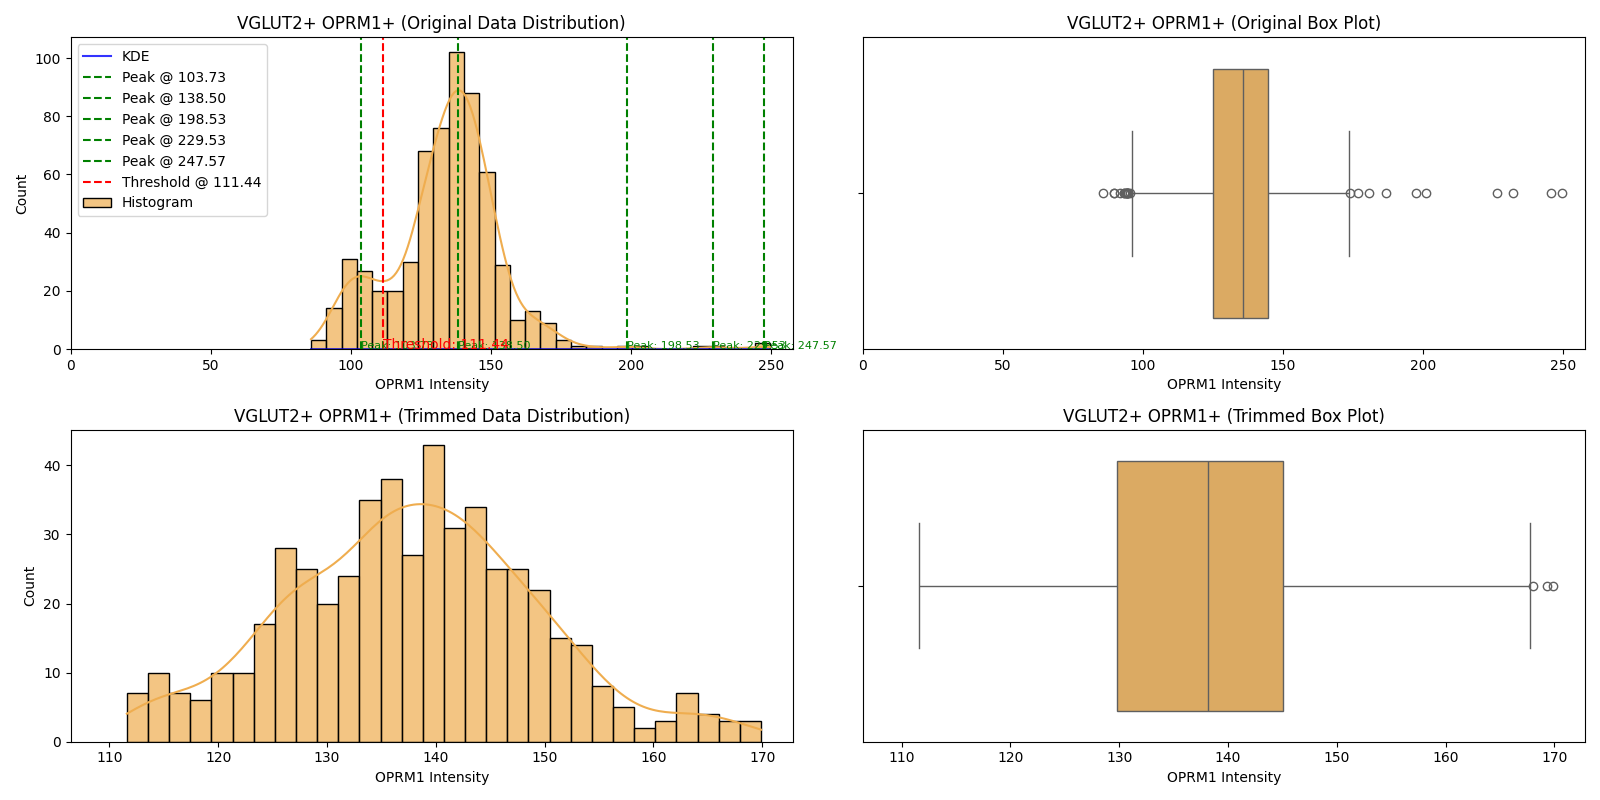
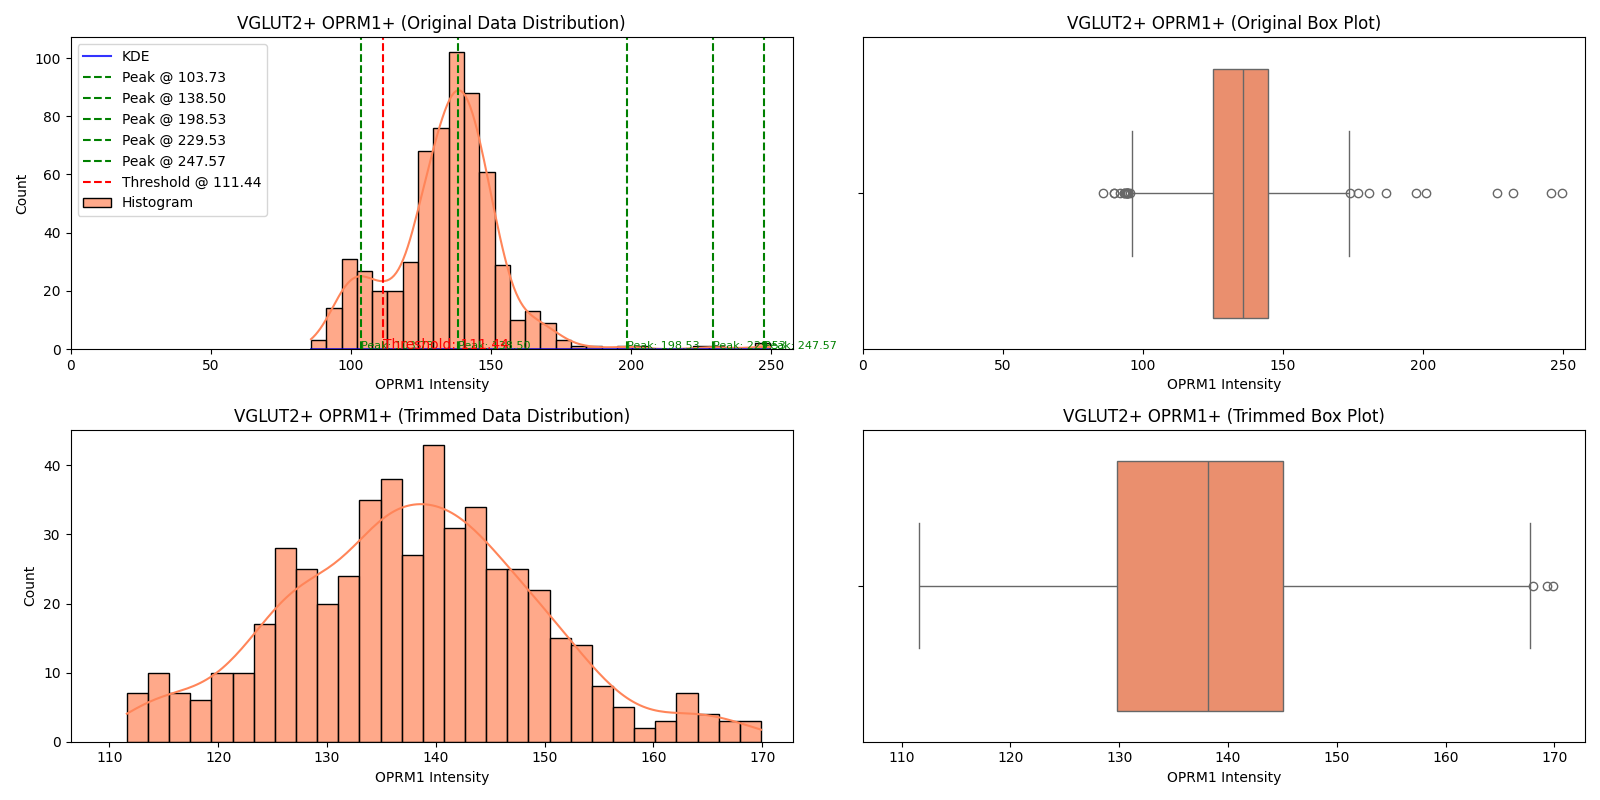
viridis and subpop fixed

diff --git a/ImageAnalysis/VentralPallidum_Pipeline/comparison_intensityANDpuncta_vgatvglut2oprm1_plots.py b/ImageAnalysis/VentralPallidum_Pipeline/comparison_intensityANDpuncta_vgatvglut2oprm1_plots.py
@@ -139,6 +139,8 @@ with open(stats_file_path, "w") as stats_file:
         stats_file.write(f"  U-statistic: {puncta_stats.statistic}, p-value: {puncta_stats.pvalue}\n\n")
 
     # Write subpopulation statistics for each classification
+
+
     for key, df in data.items():
         if not df.empty:
             stats_file.write(f"Statistics for {key.replace('_', ' ').title()}\n")
@@ -160,11 +162,14 @@ with open(stats_file_path, "w") as stats_file:
 
             stats_file.write("\n")
 
+
+
 # Define a mapping of internal names to display names
 cell_type_rename = {
     "vgat_positive_oprm1_positive": "VGAT+: OPRM1+",
     "vglut2_positive_oprm1_positive": "VGLUT2+: OPRM1+"
 }
+
 
 #Visualization
 subpop_comparison = []
@@ -175,42 +180,84 @@ for cell_type, df in data.items():
             for _, row in df.iterrows()
         ])
 
+
 if subpop_comparison:
     subpop_comparison_df = pd.DataFrame(subpop_comparison)
-    
+
     # Apply renaming correctly
-    subpop_comparison_df["Cell Type Display"] = subpop_comparison_df["Cell Type"].map(cell_type_rename)
+    subpop_comparison_df["Cell Type"] = subpop_comparison_df["Cell Type"].map(cell_type_rename)
 
-    # Joint plot for Puncta vs. Intensity
-    joint_plot = sns.jointplot(
-        data=subpop_comparison_df,
-        x="Intensity",
-        y="Puncta",
-        hue="Cell Type Display",  # Correctly mapped names
-        kind="kde",
-        palette="Set2"
-    )
+    # Categorize subpopulations BEFORE filtering
+    subpop_comparison_df["Subpopulation"] = pd.cut(
+        subpop_comparison_df["Intensity"],
+        bins=[-float("inf"), 120, float("inf")],
+        labels=["Low Intensity", "High Intensity"]
+    ).astype(str) + " | " + pd.cut(
+        subpop_comparison_df["Puncta"],
+        bins=[-float("inf"), 2, float("inf")],
+        labels=["Low Puncta", "High Puncta"]
+    ).astype(str)
 
-    joint_plot.savefig(os.path.join(plots_dir, "VGAT_vs_VGLUT2_JointPlot.png"))
-    plt.close()
+    # Store a copy of the full dataset before applying the threshold
+    full_data_df = subpop_comparison_df.copy()
 
+    # Apply filtering: Only include points with Puncta > 2 and Intensity > 120
+    filtered_df = subpop_comparison_df[
+        (subpop_comparison_df["Puncta"] > 2) & (subpop_comparison_df["Intensity"] > 120)
+    ]
 
+    # Ensure we still have valid data
+    if not full_data_df.empty:
+        # **PLOT 1: Puncta vs. Intensity (colored by Cell Type)**
+        plt.figure(figsize=(10, 6))
+        sns.scatterplot(
+            data=full_data_df,
+            x="Intensity",
+            y="Puncta",
+            hue="Cell Type",
+            palette="Set2",
+            alpha=0.7
+        )
+        plt.title("Puncta vs Intensity: VGAT vs VGLUT2", fontsize=14)
+        plt.xlabel("Intensity")
+        plt.ylabel("Puncta Count")
+        plt.legend(title="Cell Type", loc="upper right")
+        plt.tight_layout()
+        plt.savefig(os.path.join(plots_dir, "VGAT_vs_VGLUT2_Scatter.png"))
+        plt.close()
 
-    # # Scatter plots
-    # plt.figure(figsize=(10, 6))
-    # sns.scatterplot(
-    #     data=subpop_comparison_df,
-    #     x="Puncta",
-    #     y="Intensity",
-    #     hue="Cell Type",
-    #     palette="Set2",
-    #     alpha=0.7
-    # )
-    # plt.title("Puncta vs Intensity: VGAT vs VGLUT2", fontsize=14)
-    # plt.xlabel("Puncta Count")
-    # plt.ylabel("Intensity")
-    # plt.tight_layout()
-    # plt.savefig(os.path.join(plots_dir, "VGAT_vs_VGLUT2_Scatter.png"))
-    # plt.close()
+        # **PLOT 2: Subpopulation Analysis (colored by Subpopulation Class)**
+        plt.figure(figsize=(10, 6))
+        sns.scatterplot(
+            data=full_data_df,
+            x="Intensity",
+            y="Puncta",
+            hue="Subpopulation",
+            palette=viridis,  # Apply custom green shades
+            alpha=0.7
+        )
+        plt.title("Puncta vs Intensity: Subpopulation Analysis", fontsize=14)
+        plt.xlabel("Intensity")
+        plt.ylabel("Puncta Count")
+        plt.legend(title="Subpopulation", loc="upper right")
+        plt.tight_layout()
+        plt.savefig(os.path.join(plots_dir, "Subpopulation_Scatter.png"))
+        plt.close()
 
+    else:
+        print("No data available for visualization.")
 
+    # Ensure there is data left after filtering for the joint plot
+    if not filtered_df.empty:
+        # **PLOT 3: Joint plot (filtered Puncta > 2, Intensity > 120)**
+        joint_plot = sns.jointplot(
+            data=filtered_df,
+            x="Intensity",
+            y="Puncta",
+            hue="Cell Type",  # Correctly mapped names
+            palette="Set2"
+        )
+        joint_plot.savefig(os.path.join(plots_dir, "Filtered_VGAT_vs_VGLUT2_JointPlot.png"))
+        plt.close()
+    else:
+        print("No data points meet the cutoff (Puncta > 2 and Intensity > 120). Skipping joint plot.")

diff --git a/ImageAnalysis/VentralPallidum_Pipeline/comparison_intensity_vgatvglut2oprm1_plots.py b/ImageAnalysis/VentralPallidum_Pipeline/comparison_intensity_vgatvglut2oprm1_plots.py
@@ -41,8 +41,8 @@ classifications = {
     "vglut2_positive_oprm1_positive": ["vglut2_Pos: oprm1_Pos"],
 }
 colors = {
-    "vgat_positive_oprm1_positive": "#97d04f",
-    "vglut2_positive_oprm1_positive": "#efad4f",  # Shade of orange
+    "vgat_positive_oprm1_positive": "#81daca",
+    "vglut2_positive_oprm1_positive": "#ff8559",  # Shade of orange
 }
 
 # Initialize a dictionary to collect data for each classification
